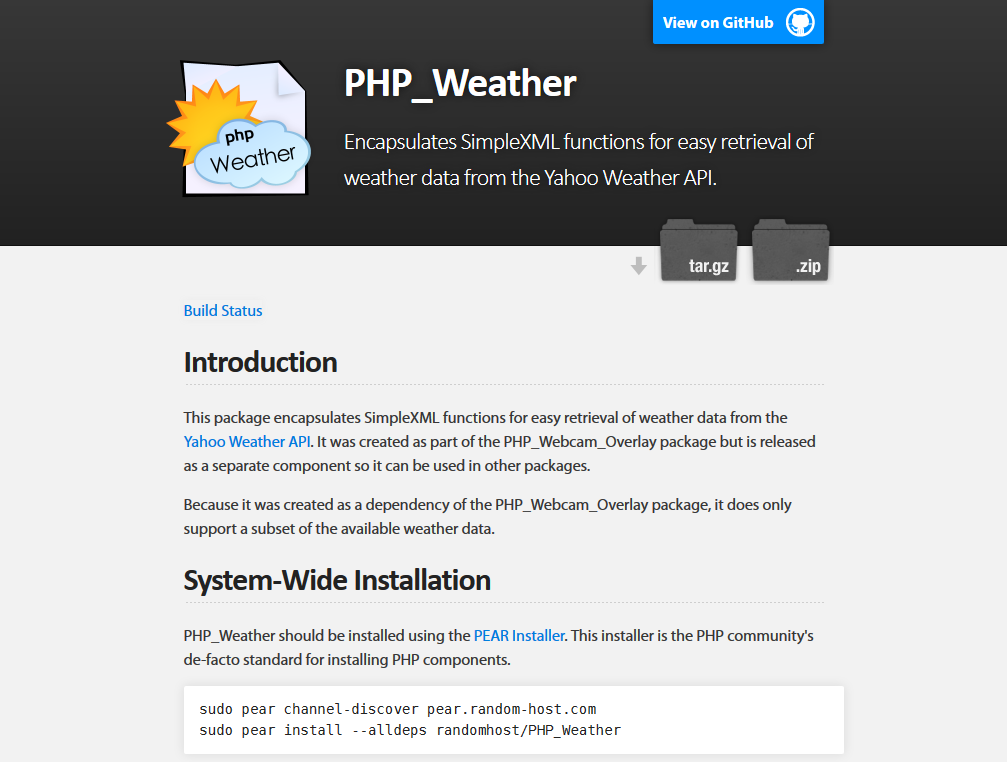
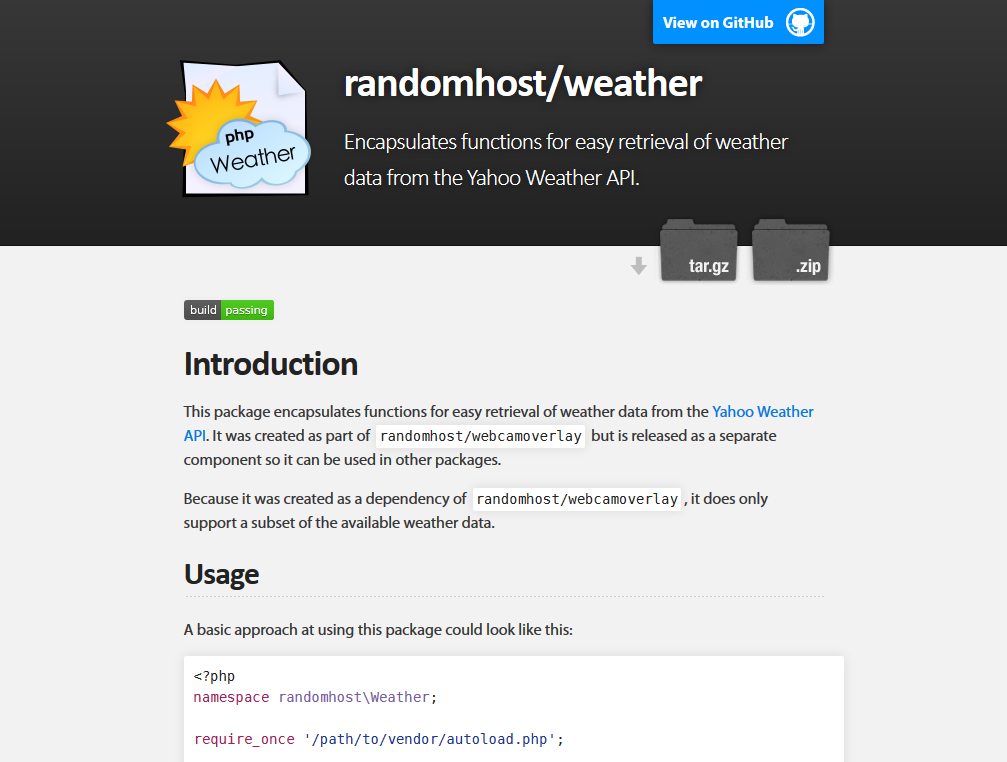
Update randomhost/weather

diff --git a/index.html b/index.html
@@ -93,14 +93,10 @@
                     class="img-responsive img-thumbnail"
                 ></a>
             </p>
-            <h2>weather <small><span class="label label-danger">broken</span></small></h2>
-            <p class="text-danger">
-                This package is currently broken due to Yahoo discontinuing it's
-                public API.
-            </p>
+            <h2>weather</h2>
             <p>
-                Encapsulates SimpleXML functions for easy retrieval of weather data
-                from the Yahoo Weather API.
+                Encapsulates functions for easy retrieval of weather data from
+                the Yahoo Weather API.
             </p>
             <p>
                 <a class="btn btn-primary" href="./weather/"
